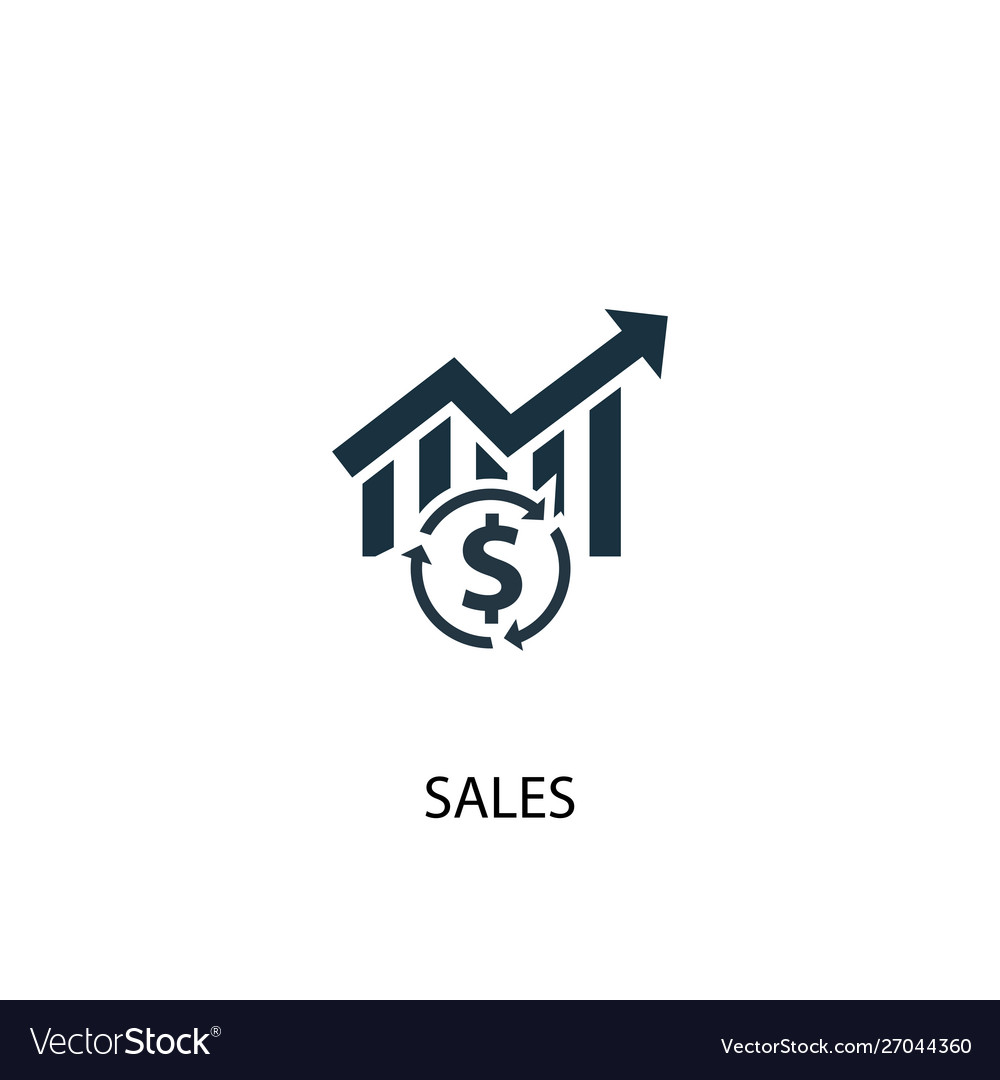
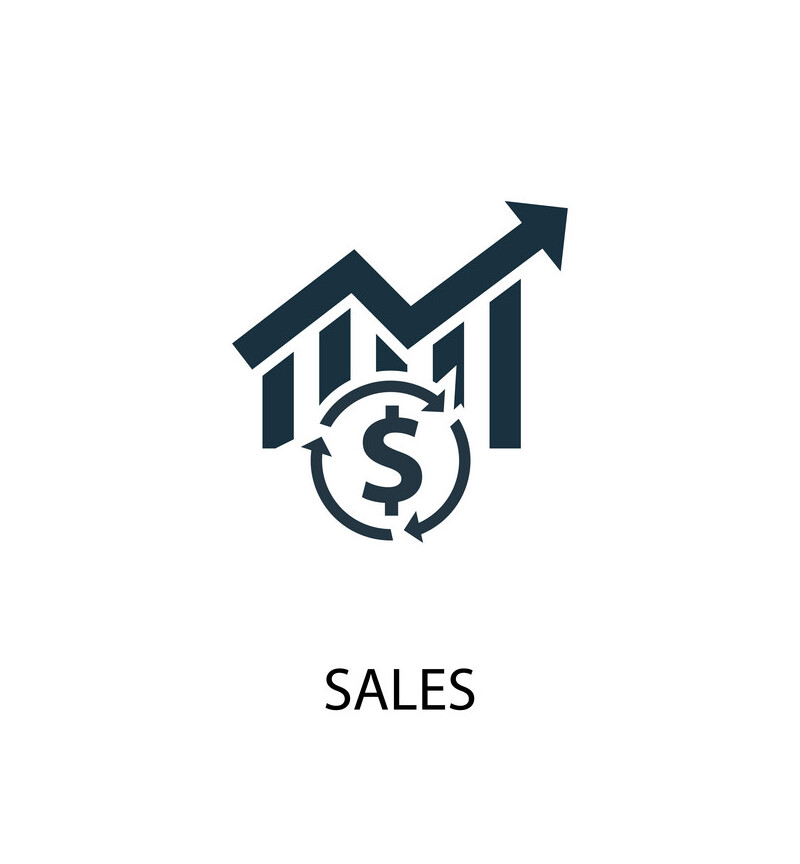
Changes to Portfolio-Website

Changed region(s): [[0.2812, 0.2188, 0.7188, 0.625], [0.0, 0.9062, 1.0, 1.0], [0.4062, 0.7188, 0.5938, 0.8438]]

diff --git a/index.html b/index.html
@@ -1638,7 +1638,7 @@
     
     
     <a href="https://github.com/rithiksachdev/agile_training" target="_blank" rel="noopener" class="card-image hover-overlay">
-      <img src="/project/sales-analysis/featured_hu94051a9461f1bc8bea69bdbcf5e7c0e5_82409_550x0_resize_q75_lanczos.jpg" alt="Sales Analysis Website" class="img-responsive" loading="lazy">
+      <img src="/project/sales-analysis/featured_hua7f9765e939331b2a39495f43bad9a5e_71365_550x0_resize_q75_lanczos.jpg" alt="Sales Analysis Website" class="img-responsive" loading="lazy">
     </a>
     
     <div class="card-text">

diff --git a/project/sales-analysis/index.html b/project/sales-analysis/index.html
@@ -848,7 +848,7 @@
 
 <div class="article-header article-container featured-image-wrapper mt-4 mb-4" style="max-width: 720px; max-height: 778px;">
   <div style="position: relative">
-    <img src="/project/sales-analysis/featured_hu94051a9461f1bc8bea69bdbcf5e7c0e5_82409_720x0_resize_q75_lanczos.jpg" alt="" class="featured-image">
+    <img src="/project/sales-analysis/featured_hua7f9765e939331b2a39495f43bad9a5e_71365_720x0_resize_q75_lanczos.jpg" alt="" class="featured-image">
     <span class="article-header-caption">Sales Analysis Website</span>
   </div>
 </div>
